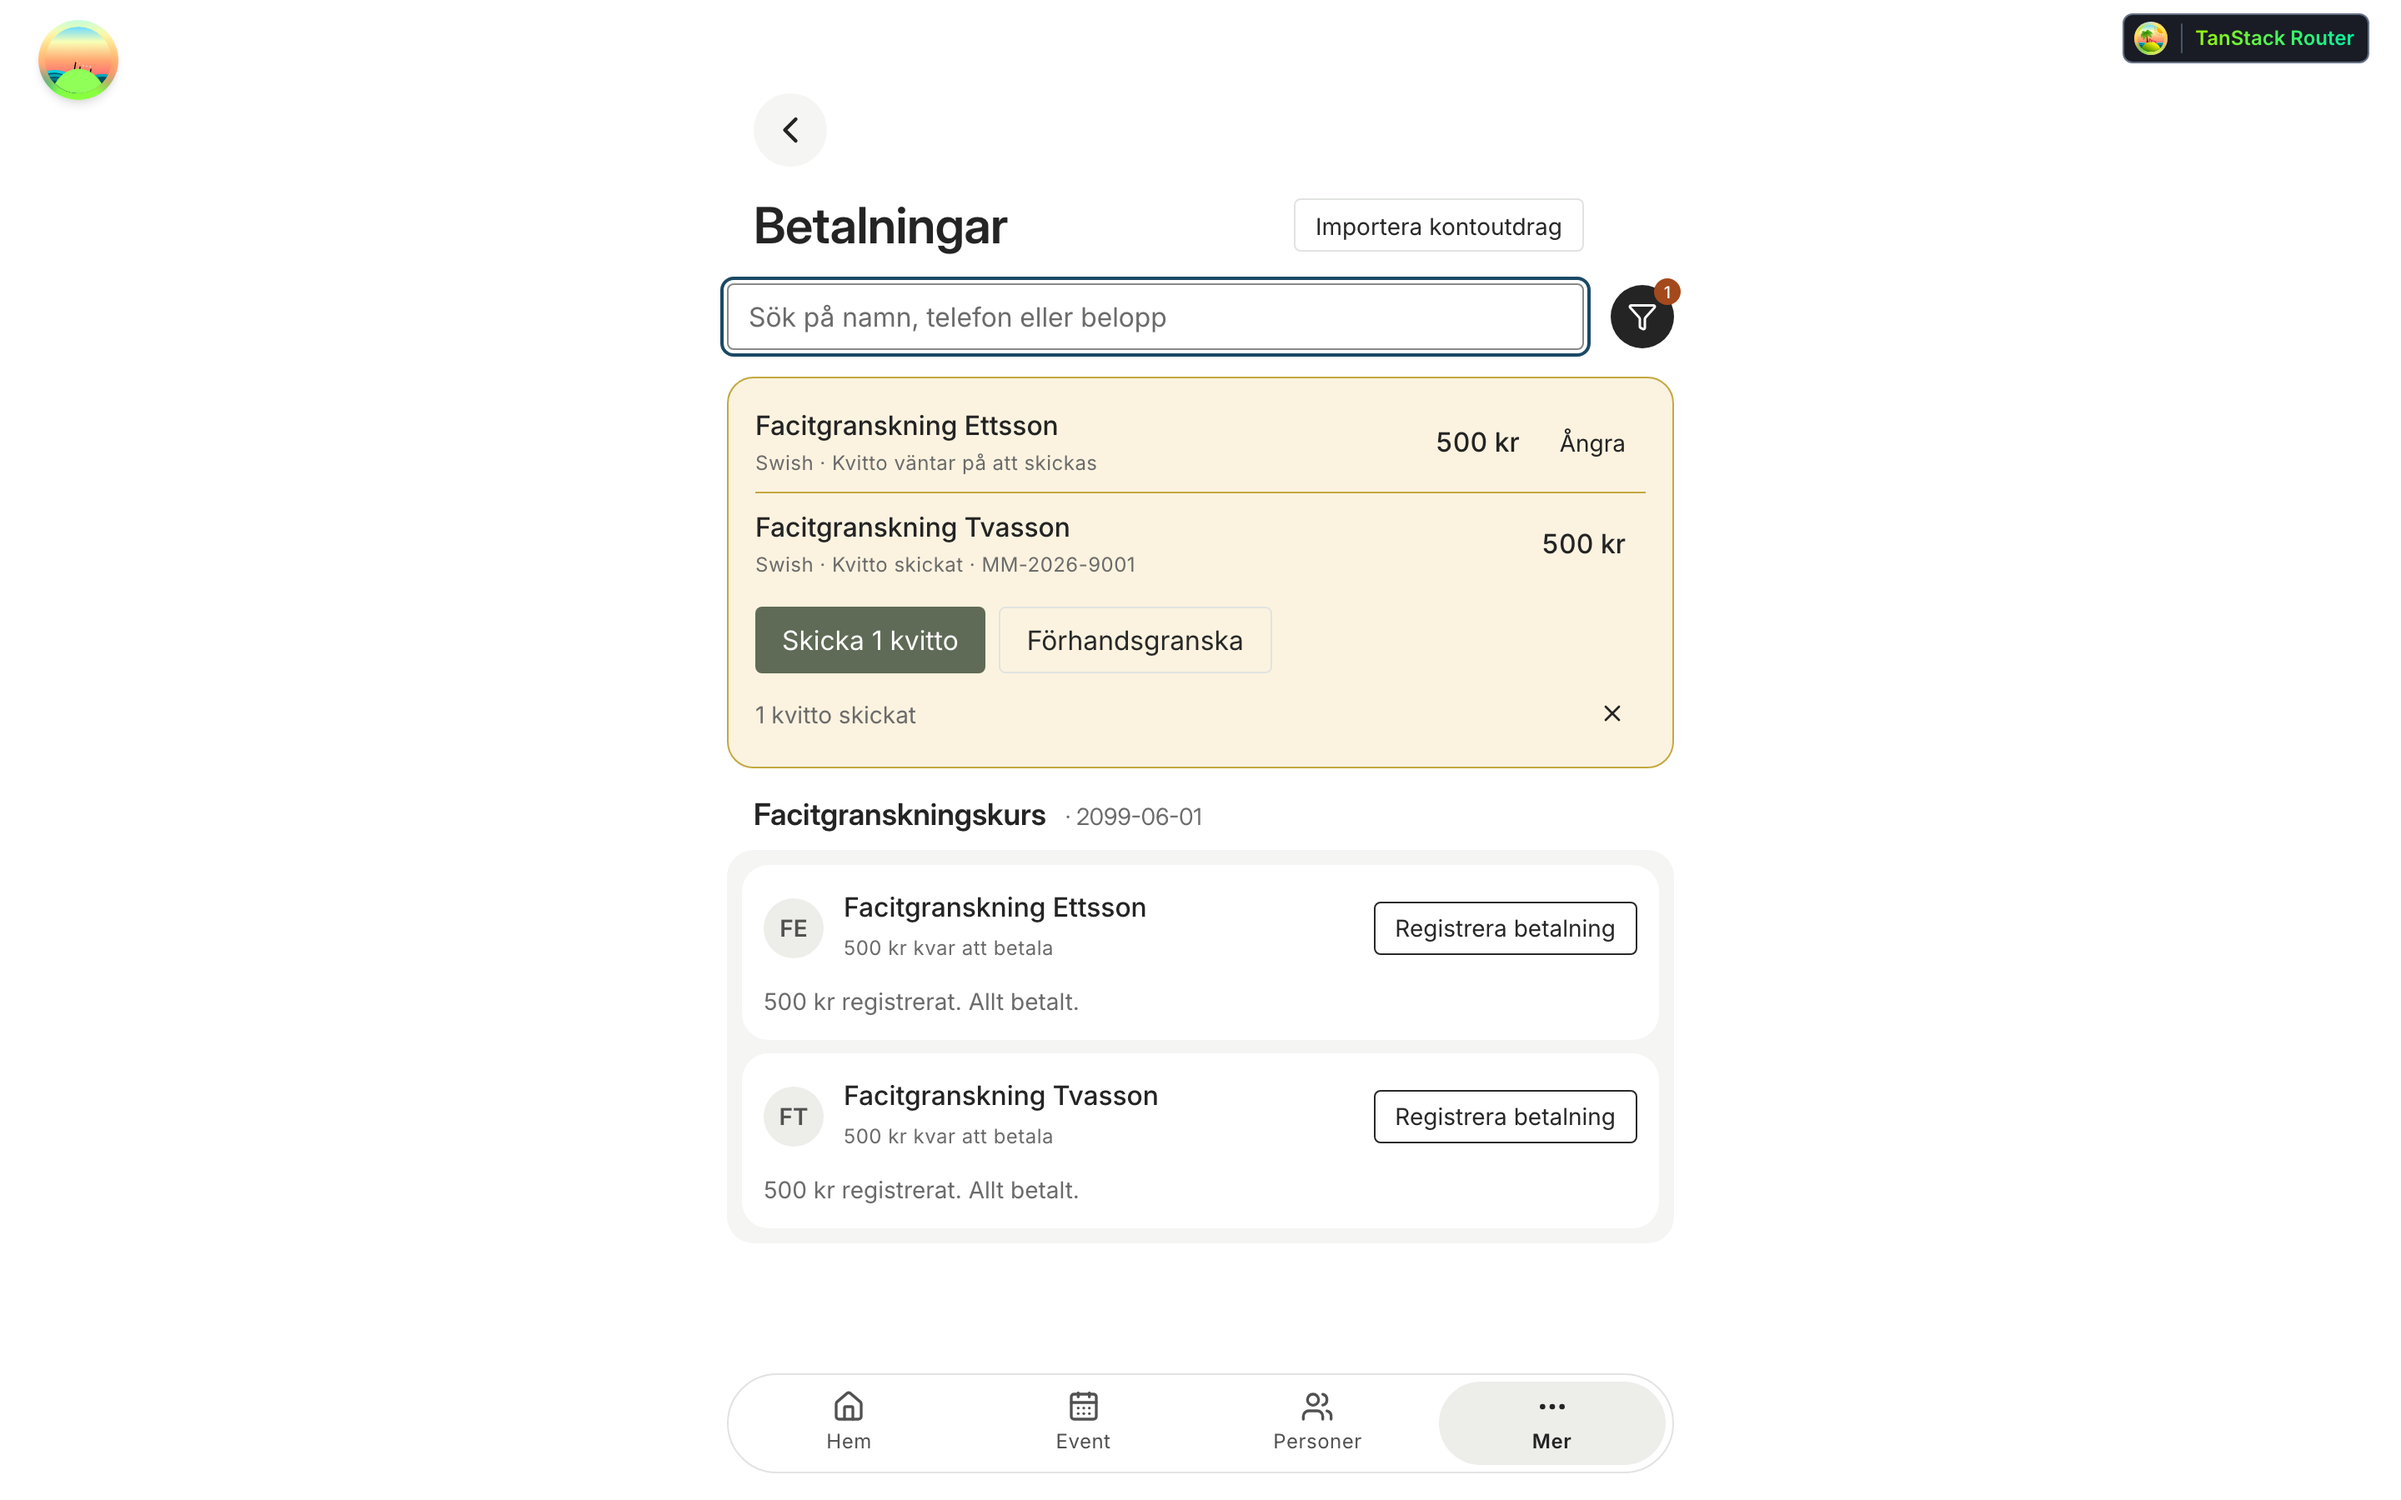
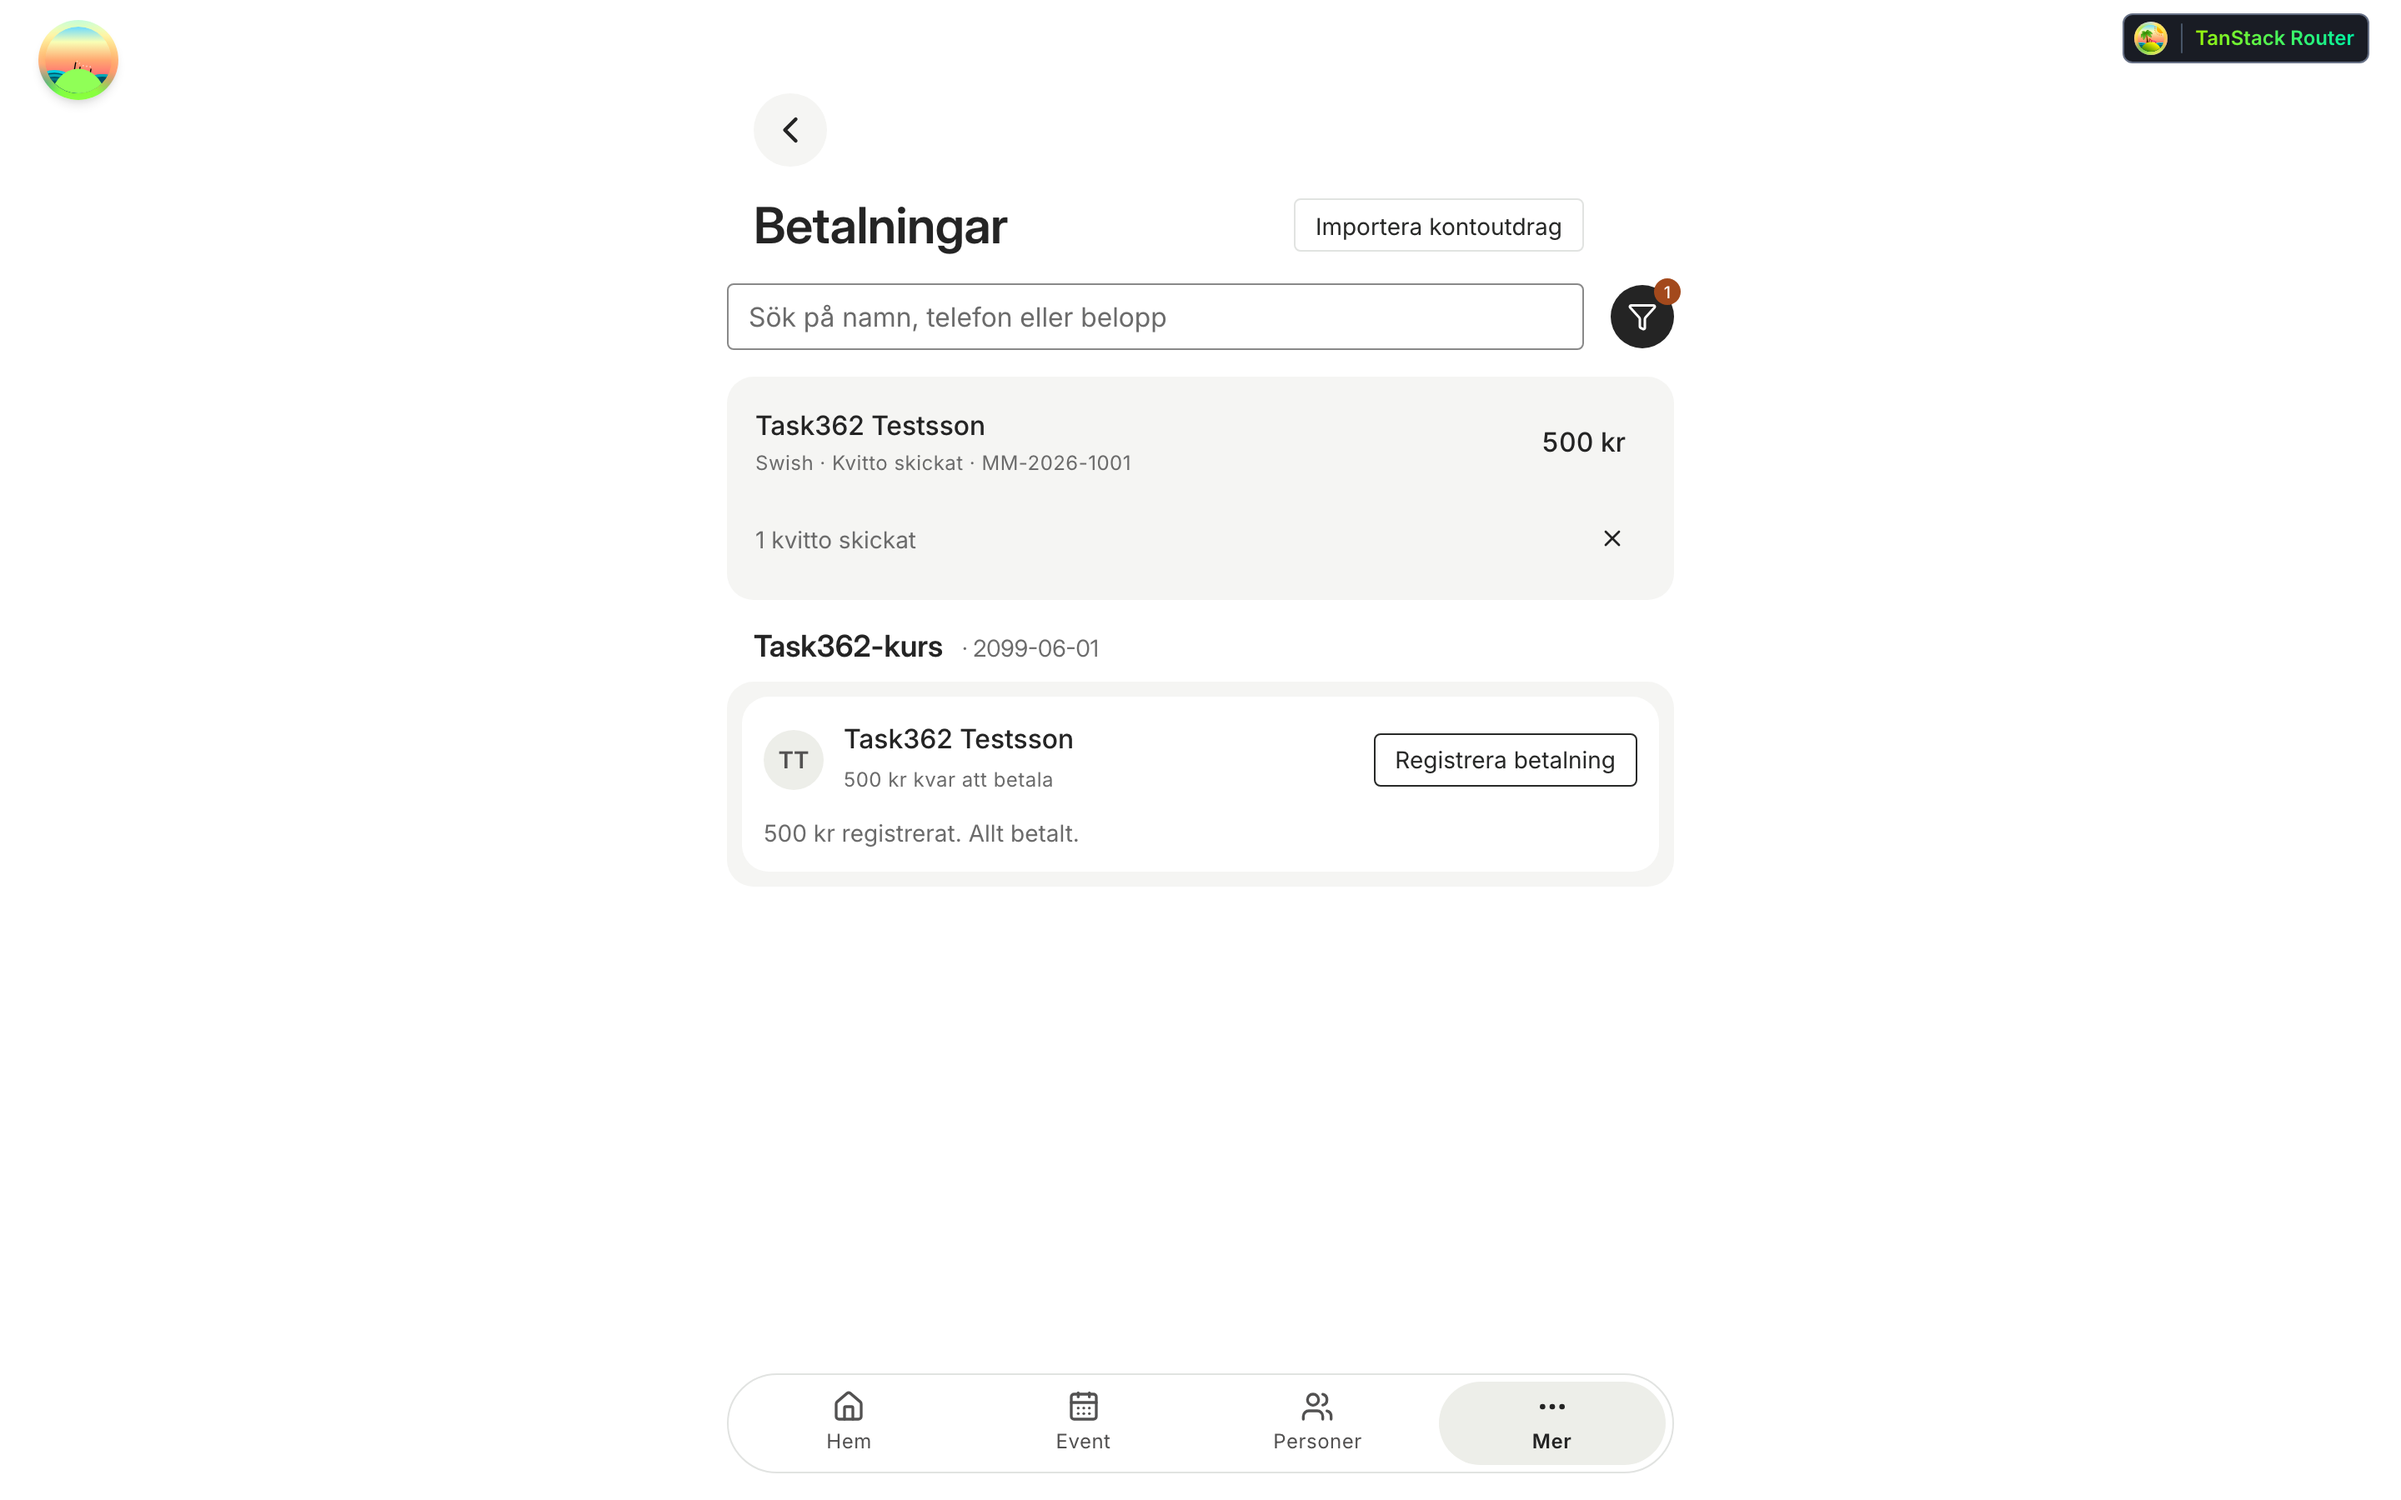
fix(TASK-402.2): runda 2 — regenerera facit-skärmdumpar, rätta fokus-kommentarer, byt OmbokningsKvitto-etikett
Review-agentens tre fynd (runda 1, granskad SHA 71f40c5e) rättade:

1. [warning] DoD #4:s facit-skärmdumpar i
   tasks/sessions/bilagor/task-402.2-facit-jamforelse/ var tagna mot
   checkpoint-commiten d27b2675 — FÖRE blockAktivt-fixen (235d320f). Alla tre
   regenererade mot HEAD med samma metod (mockade nätverksanrop via
   page.route, ingen skarp staging-skrivning, desktop 1440x900 @2x). RGB-
   mätning vid samma logiska blockposition (1700,460) bekräftar rättningen:
   "efter Registrera" är nu rgb(251,243,224) (TON_AKTIV/guld, förut felaktigt
   TON_VILA), "efter Registrera och skicka" är rgb(245,245,243) (TON_VILA).
   Ingen avvikelse mot facit-formen — bara bevisningen var inaktuell, ingen
   AMENDERING-fil behövs.

2. [warning] Stale kommentarer om Ångra-dialogens default-fokus i
   RegistreratNuBlock.tsx (~rad 56) och
   betalningar-inkorg-utskicksflode.staging.test.ts (~rad 752) påstod att
   knappen "Behåll" fick default-fokus via DOM-ordning. Verifierat mot
   installerad react-aria-källa (useDialog.mjs: "Focus the dialog itself on
   mount") och VariantC-facitets egen, korrekta kommentar: dialogen SJÄLV
   får fokus vid mount, "Behåll" är bara första Tab-stoppet. Ingen
   kodändring — testets egen assertion (rad ~798) var redan korrekt.

3. [info] OmbokningsKvitto.tsx:s TillBetalning-knapp visade fortfarande
   "Registrera betalning" trots att den klickar en trigger vars tillgängliga
   namn efter denna PR är "Registrera inbetalning" — en PR-skapad
[…]

diff --git a/src/components/betalningar/RegistreratNuBlock.tsx b/src/components/betalningar/RegistreratNuBlock.tsx
@@ -53,8 +53,17 @@ import { type JobbDelutfall, kanForhandsgranska } from './inkorg-harledningar';
  *    avvikelse från primitivens `rounded`-default; en primitiv-bred ändring
  *    är en bokförd KANDIDAT utan eget kort, se PR-kroppen), rubrik "Ångra
  *    registreringen?", kropp "Namn · belopp · betalsätt" + konsekvensen,
- *    knappar "Behåll" (ghost, står FÖRST i DOM så react-arias default-fokus
- *    landar där) och "Ångra registreringen" (danger). Se `AngraKnapp` nedan.
+ *    knappar "Behåll" (ghost) och "Ångra registreringen" (danger). [RÄTTAT
+ *    RUNDA 2] Fokus landar i DIALOGEN, inte på "Behåll" — react-arias
+ *    `useDialog` fokuserar dialog-elementet självt vid mount (om inget barn
+ *    redan har fokus; `node_modules/react-aria/dist/private/dialog/
+ *    useDialog.mjs`, kommentaren "Focus the dialog itself on mount"), så
+ *    rubriken läses upp av skärmläsare. Tab når "Behåll" FÖRST därefter
+ *    (DOM-ordningen styr tab-sekvensen, inte initialt fokus) — samma
+ *    beteende som facitets VariantC redan dokumenterar korrekt
+ *    (`prototype/VariantC.tsx`: "Fokus landar i dialogen (react-arias
+ *    default, så rubriken läses upp), Tab når Behåll först"). Se
+ *    `AngraKnapp` nedan.
  *
  * SERVER FÖRST ÄR OFÖRÄNDRAT, ÄVEN I DIALOGEN: till skillnad från
  * prototypens `close()`-vid-klick (ingen riktig mutation att vänta på i en

diff --git a/tests/e2e/betalningar-inkorg-utskicksflode.staging.test.ts b/tests/e2e/betalningar-inkorg-utskicksflode.staging.test.ts
@@ -749,10 +749,14 @@ test.describe('TASK-362 — betalningsinkorgens utskicksflöde', () => {
    * [TASK-402.2, formbyte 3] ÅNGRA GÅR VIA HUSETS DIALOG — nytt fall, AC #2/
    * AC #6. Facit (`s121-bekraftelsesteget-konvergens/facit.json` § "Ångra-
    * dialogen"): rubrik "Ångra registreringen?", kropp "Namn · belopp ·
-   * betalsätt" + konsekvensen, knappar "Behåll" (ofarligt, default-fokus)
-   * och "Ångra registreringen" (destruktivt). Escape stänger utan ändring —
-   * samma `Modal`-primitiv-beteende `Dialog.tsx`s docblock dokumenterar
-   * ("Escape stänger" är inbyggt via react-aria-components).
+   * betalsätt" + konsekvensen, knappar "Behåll" (ofarligt) och "Ångra
+   * registreringen" (destruktivt). [RÄTTAT RUNDA 2] Default-fokus landar på
+   * DIALOGEN, inte på "Behåll" — react-arias `useDialog` fokuserar
+   * dialog-elementet självt vid mount (samma verifierade beteende som
+   * `RegistreratNuBlock.tsx`s docblock nu beskriver); "Behåll" är bara
+   * första Tab-stoppet. Escape stänger utan ändring — samma `Modal`-
+   * primitiv-beteende `Dialog.tsx`s docblock dokumenterar ("Escape stänger"
+   * är inbyggt via react-aria-components).
    *
    * TVÅ RADER, MED AVSIKT: en ångrad rad ska INTE ta bort HELA blocket, så
    * assertionerna kan pröva "just den här raden borta, den andra kvar" i

diff --git a/tests/acceptance/anmalan-ombokning.acceptance.test.ts b/tests/acceptance/anmalan-ombokning.acceptance.test.ts
@@ -443,7 +443,7 @@ test.describe('Boka om till annat event (TASK-368.5)', () => {
     await expect(kvitto).toContainText('Nya eventet kostar 2 500 kr, samma pris.');
 
     // Ingen betalningsväg vid jämnt pris.
-    await expect(kvitto.getByRole('button', { name: 'Registrera betalning' })).toHaveCount(0);
+    await expect(kvitto.getByRole('button', { name: 'Registrera inbetalning' })).toHaveCount(0);
     await expect(kvitto.getByRole('button', { name: 'Registrera återbetalning' })).toHaveCount(0);
 
     // AVBOKNINGSGRUPPEN ÄR I SITT VILOLÄGE PÅ DEN NYA ANMÄLAN (review #2267

diff --git a/src/components/registrations/OmbokningsKvitto.tsx b/src/components/registrations/OmbokningsKvitto.tsx
@@ -87,7 +87,7 @@ function TillBetalning({ vag }: { vag: Exclude<Prisvag, null> }) {
 
   return (
     <Button intent="secondary" emphasis="outline" size="sm" onPress={till}>
-      {vag === 'aterbetalning' ? 'Registrera återbetalning' : 'Registrera betalning'}
+      {vag === 'aterbetalning' ? 'Registrera återbetalning' : 'Registrera inbetalning'}
     </Button>
   );
 }
